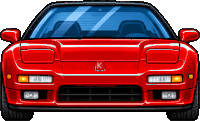
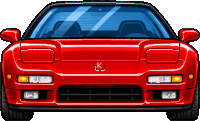
Kaze NX: traseira sem o verde da arte original no encontro do vidro com o aerofólio
Claude-Session: https://claude.ai/code/session_01MLD9VR7gkmY4w6a9beZcp6

diff --git a/tools/ref/art_sprites.py b/tools/ref/art_sprites.py
@@ -20,7 +20,7 @@ from vectra_sprites import red_mask  # noqa: E402
 # (lanternas, bancos vistos pelo vidro); holes: o fundo claro preso dentro (vão da asa) sai
 CFG = {
     'nsx': {'width': {'side': 300, 'rear': 200, 'front': 200}, 'green2red': ('rear', 'front'), 'holes': (),
-            'text': {}, 'cut': {'rear': [(4, 36, 196, 63)]}},
+            'text': {}, 'cut': {'rear': [(4, 36, 196, 63)]}, 'glassband': {'rear': [(38, 43)]}, 'neutral': {'rear': [(32, 38), (43, 52)]}},
     'f40': {'width': {'side': 300, 'rear': 200, 'front': 200}, 'green2red': (), 'holes': ('rear', 'front'),
             'text': {'rear': [(85, 33, 117, 40)], 'side': [(203, 47, 218, 55)]},
             'cut': {'rear': [(15, 40, 185, 61)], 'front': [(45, 4, 155, 34)]}},
@@ -40,6 +40,9 @@ def green_to_red(a):
     hsv = cv2.cvtColor(a[..., :3], cv2.COLOR_RGB2HSV_FULL).astype(int)
     h, s, v = hsv[..., 0], hsv[..., 1], hsv[..., 2]
     m = (h > 85) & (h < 140) & (s > 60) & (a[..., 3] > 0)  # verde-azulado da pintura
+    # reflexos claros da pintura verde (pouca cor, puxados para o ciano: frestas do aerofólio,
+    # vincos): viram reflexo rosado da pintura vermelha (o vidro, bem azul e saturado, fica)
+    m |= (h > 95) & (h < 152) & (s > 12) & (s < 60) & (v > 90) & (a[..., 3] > 0)
     hsv[..., 0] = np.where(m, 0, h)
     hsv[..., 1] = np.where(m, np.clip(s * 1.15 + 30, 0, 255), s)
     hsv[..., 2] = np.where(m, np.clip(v * 1.45 + 25, 0, 255), v)
@@ -80,6 +83,27 @@ def main():
             gm = green_to_red(a)
             if ref_v is not None:
                 match_v(a, gm, ref_v)
+        for y0, y1 in cfg.get('neutral', {}).get(k, []):
+            # sombras e frestas em volta do aerofólio: o ciano escuro da pintura verde vira preto neutro
+            hsv = cv2.cvtColor(a[..., :3], cv2.COLOR_RGB2HSV_FULL).astype(int)
+            band = np.zeros(a.shape[:2], bool)
+            W_ = a.shape[1]
+            band[y0:y1, int(W_ * 0.11):int(W_ * 0.89)] = True  # sem os retrovisores
+            band &= (hsv[..., 0] > 100) & (hsv[..., 0] < 170) & (hsv[..., 1] > 30)
+            hsv[..., 1] = np.where(band, hsv[..., 1] // 6, hsv[..., 1])
+            a[..., :3] = np.where(band[..., None], cv2.cvtColor(hsv.astype(np.uint8), cv2.COLOR_HSV2RGB_FULL), a[..., :3])
+        for y0, y1 in cfg.get('glassband', {}).get(k, []):
+            # vidro visto pela fresta do aerofólio: o mesmo azul do vidro de cima (era ciano/verde)
+            hsv = cv2.cvtColor(a[..., :3], cv2.COLOR_RGB2HSV_FULL).astype(int)
+            top = hsv[int(a.shape[0] * 0.06):int(a.shape[0] * 0.19)]
+            gh, gs = int(np.median(top[..., 0])), int(np.median(top[..., 1]))
+            band = np.zeros(a.shape[:2], bool)
+            band[y0:y1] = True
+            band &= (hsv[..., 0] > 120) & (hsv[..., 0] < 160) & (hsv[..., 1] > 40)
+            hsv[..., 0] = np.where(band, gh, hsv[..., 0])
+            hsv[..., 1] = np.where(band, np.maximum(hsv[..., 1], gs), hsv[..., 1])
+            hsv[..., 2] = np.where(band, (hsv[..., 2] * 0.85).astype(int), hsv[..., 2])
+            a[..., :3] = np.where(band[..., None], cv2.cvtColor(hsv.astype(np.uint8), cv2.COLOR_HSV2RGB_FULL), a[..., :3])
         for x0, y0, x1, y1 in cfg['text'].get(k, []):
             for y in range(y0, y1):
                 a[y, x0:x1, :3] = a[y, x0 - 2, :3]
